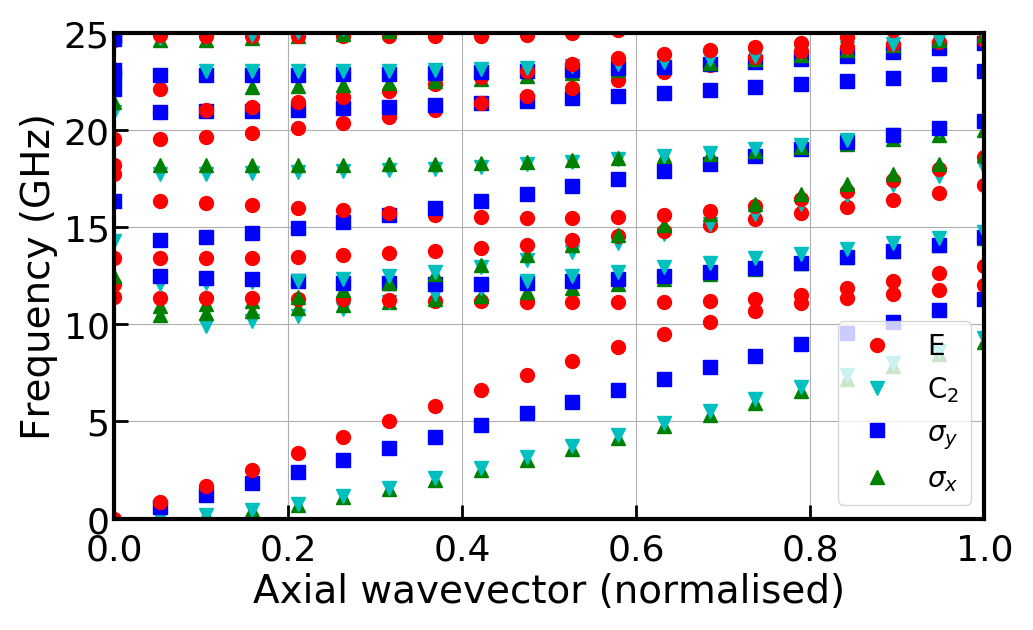
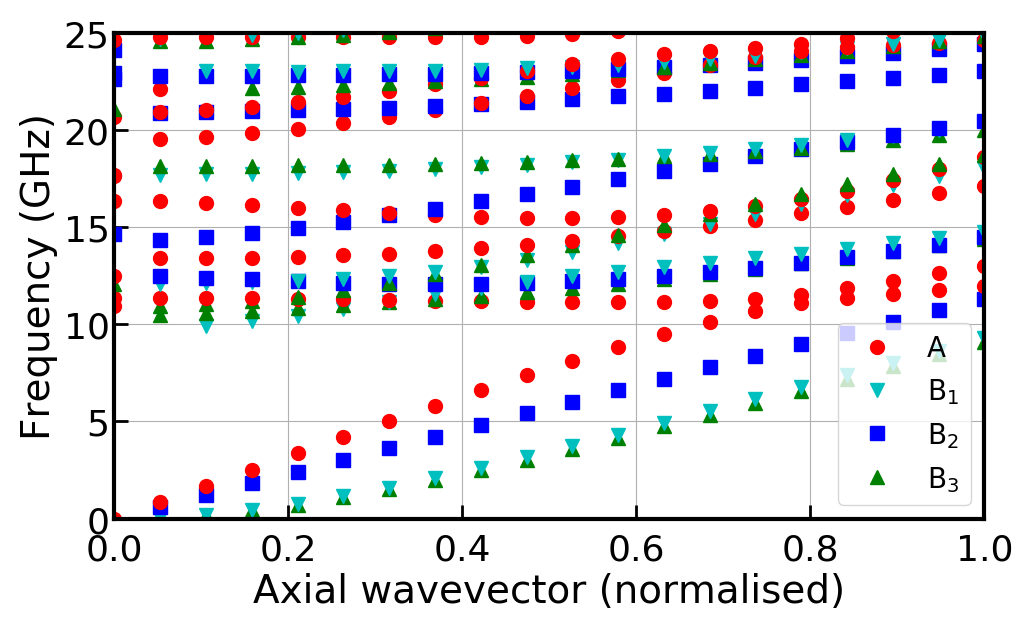
Corrected labeling of modes by symmetry groups (just an error in plot label).

diff --git a/tutorials/simo-tut_03_1-dispersion-npload.py b/tutorials/simo-tut_03_1-dispersion-npload.py
@@ -76,16 +76,16 @@ for i_ac, q_ac in enumerate(np.linspace(0.0,k_AC,nu_ks)):
         if sym_list[i][0] == 1 and sym_list[i][1] == 1 and sym_list[i][2] == 1:
             sym_A, = plt.plot(np.real(q_ac/k_AC), Om, 'or')
         if sym_list[i][0] == -1 and sym_list[i][1] == 1 and sym_list[i][2] == -1:
-            sym_B, = plt.plot(np.real(q_ac/k_AC), Om, 'vc')
+            sym_B1, = plt.plot(np.real(q_ac/k_AC), Om, 'vc')
         if sym_list[i][0] == 1 and sym_list[i][1] == -1 and sym_list[i][2] == -1:
-            sym_C, = plt.plot(np.real(q_ac/k_AC), Om, 'sb')
+            sym_B2, = plt.plot(np.real(q_ac/k_AC), Om, 'sb')
         if sym_list[i][0] == -1 and sym_list[i][1] == -1 and sym_list[i][2] == 1:
-            sym_D, = plt.plot(np.real(q_ac/k_AC), Om, '^g')
+            sym_B3, = plt.plot(np.real(q_ac/k_AC), Om, '^g')
 
     print("Wavevector loop", i_ac+1, "/", nu_ks)
 ax.set_ylim(0,25)
 ax.set_xlim(0,1)
-plt.legend([sym_A, sym_B, sym_C, sym_D],['E',r'C$_2$',r'$\sigma_y$',r'$\sigma_x$'], loc='lower right')
+plt.legend([sym_A, sym_B1, sym_B2, sym_B3],['A',r'B$_1$',r'B$_2$',r'B$_3$'], loc='lower right')
 plt.xlabel(r'Axial wavevector (normalised)')
 plt.ylabel(r'Frequency (GHz)')
 plt.savefig('tut_03_1-dispersion_npload_symmetrised.pdf', bbox_inches='tight')

diff --git a/docs/source/tutorial.rst b/docs/source/tutorial.rst
@@ -370,7 +370,7 @@ Investigating Dispersion and np.save/np.load
 .. figure:: ../../tutorials/tut_03_1-dispersion_npload_symmetrised.png
    :scale: 70 %
    
-   Acoustic dispersion diagram with modes categorised by symmetry.
+   Acoustic dispersion diagram with modes categorised by symmetry as in Table 1 of "Formal selection rules for Brillouin scattering in integrated waveguides and structured fibers" by C. Wolff, M. J. Steel, and C. G. Poulton ``https://doi.org/10.1364/OE.22.032489``
 
 .. raw:: latex
 
